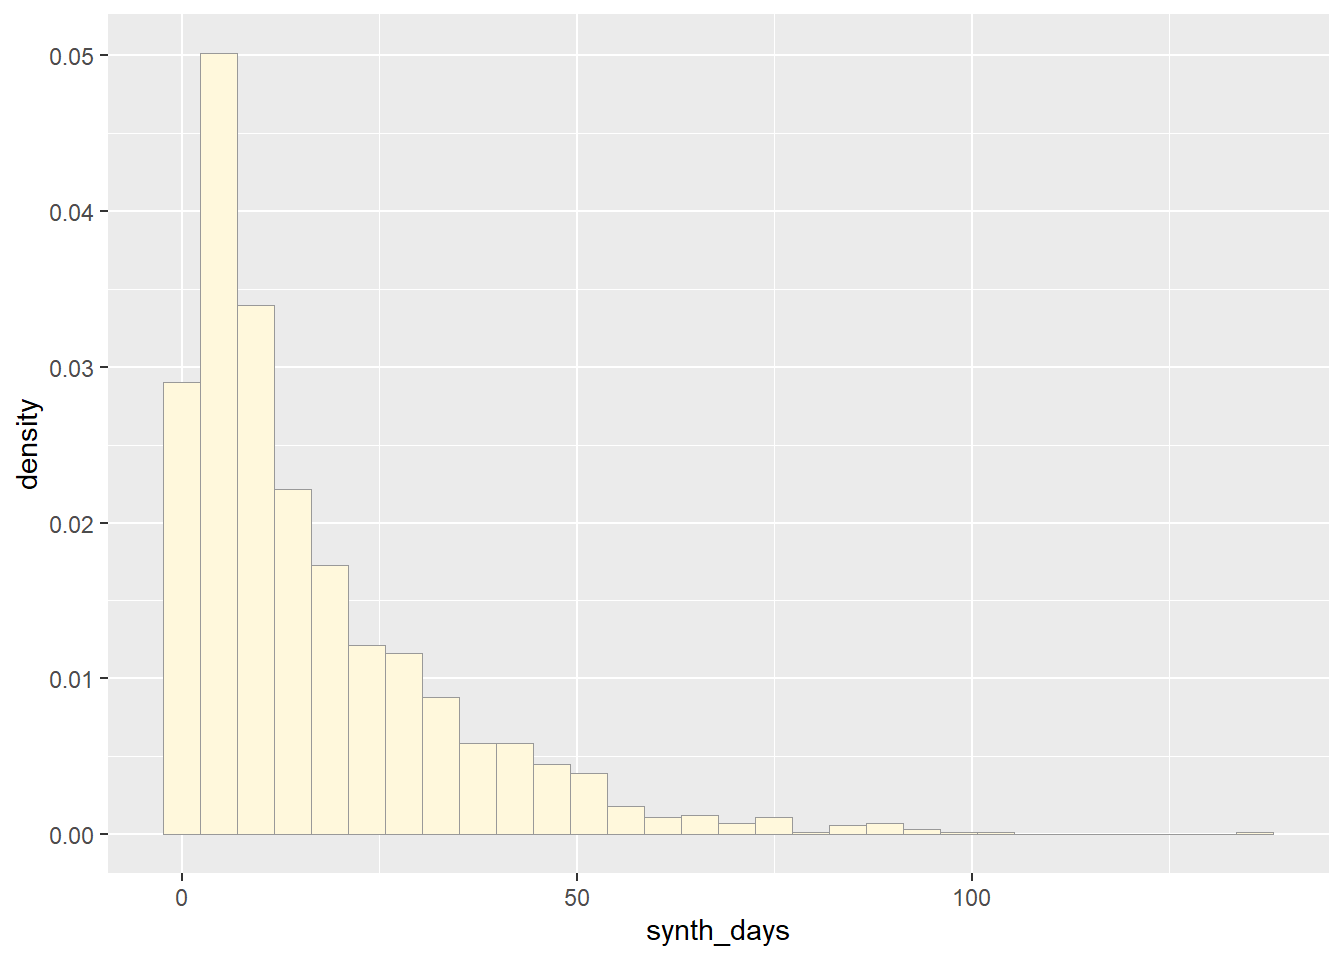
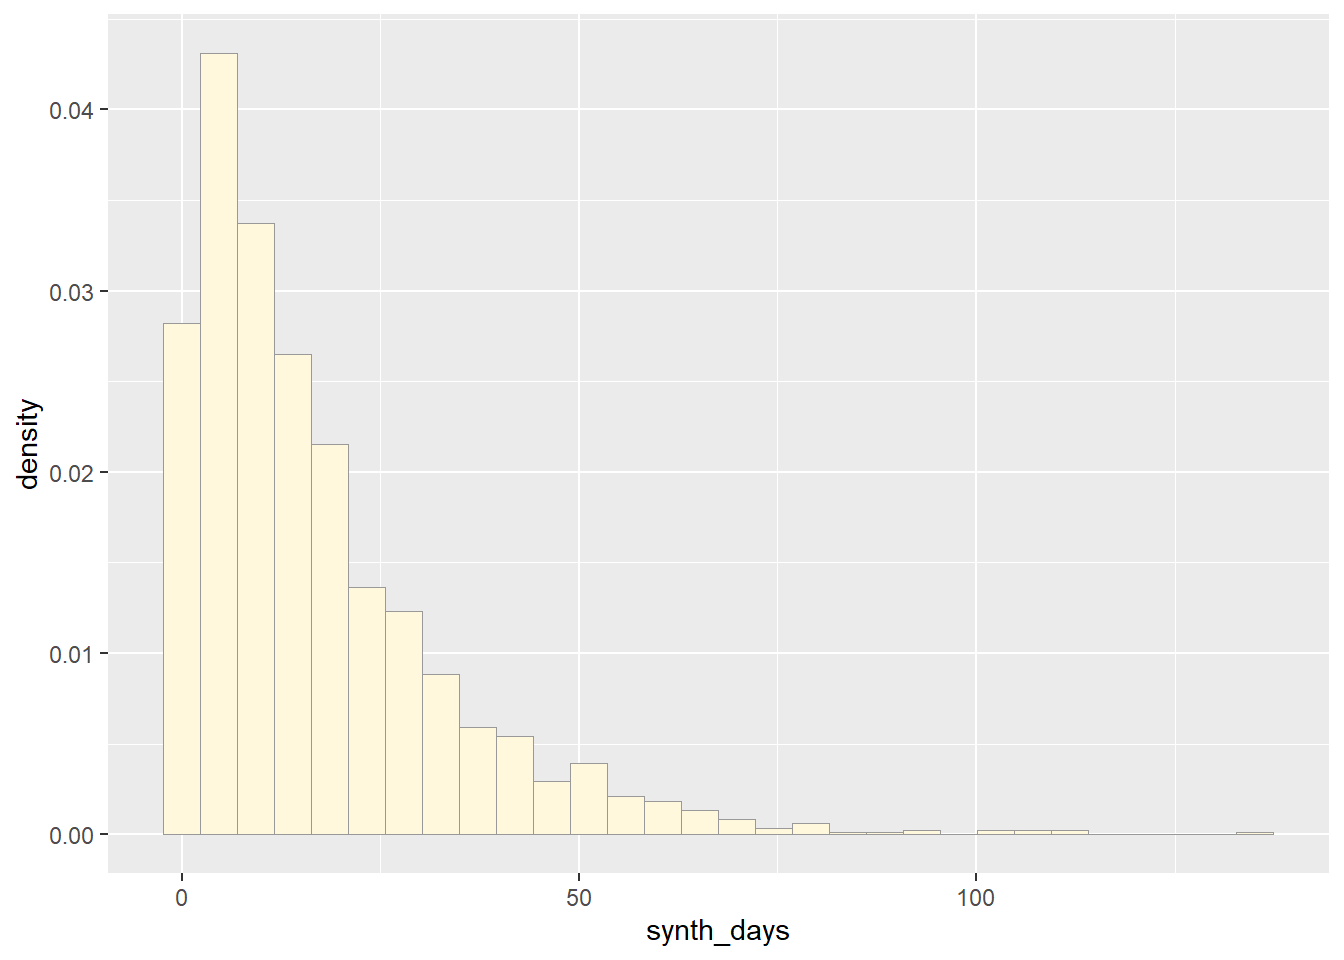
Adding homework 9 I hope it goes well

diff --git a/docs/Homework8.html b/docs/Homework8.html
@@ -294,7 +294,19 @@ str(z)</code></pre>
 <div id="opening-library" class="section level4">
 <h4>Opening Library</h4>
 <pre class="r"><code>library(ggplot2) # for graphics
-library(MASS) # for maximum likelihood estimation</code></pre>
+library(MASS) # for maximum likelihood estimation
+library(dplyr)</code></pre>
+<pre><code>## 
+## Attaching package: &#39;dplyr&#39;</code></pre>
+<pre><code>## The following object is masked from &#39;package:MASS&#39;:
+## 
+##     select</code></pre>
+<pre><code>## The following objects are masked from &#39;package:stats&#39;:
+## 
+##     filter, lag</code></pre>
+<pre><code>## The following objects are masked from &#39;package:base&#39;:
+## 
+##     intersect, setdiff, setequal, union</code></pre>
 </div>
 <div id="reading-in-a-data-vector-for-testing-distributions"
 class="section level4">
@@ -378,6 +390,7 @@ stat_function):</p>
 sdML &lt;- normPars$estimate[&quot;sd&quot;]
 
 xval &lt;- seq(0,max(z$synth_days),len=length(z$synth_days))
+des_xval &lt;- seq(max(z$synth_days), 0 ,len=length(z$synth_days))
 
  stat &lt;- stat_function(aes(x = xval, y = ..y..), fun = dnorm, colour=&quot;red&quot;, n = length(z$synth_days), args = list(mean = meanML, sd = sdML))
  p1 + stat</code></pre>
@@ -398,6 +411,14 @@ stat2 &lt;- stat_function(aes(x = xval, y = ..y..), fun = dexp, colour=&quot;blu
  p1 + stat + stat2</code></pre>
 <pre><code>## `stat_bin()` using `bins = 30`. Pick better value with `binwidth`.</code></pre>
 <p><img src="Homework8_files/figure-html/unnamed-chunk-8-1.png" width="672" /></p>
+<pre class="r"><code># p_temp &lt;- ggplot(data=z, 
+#             aes(x= arrange(xval, desc(z$synth_days)), y=after_stat(density)))
+# print(p_temp) 
+  
+# stat2_des &lt;- stat_function(aes(x = des_xval, y = ..y..), fun = dexp, colour=&quot;blue&quot;, n = length(z$synth_days), args = list(rate=rateML))
+# p_temp + stat2_des
+
+# arrange(xval, desc(z$synth_days))</code></pre>
 </div>
 <div id="plot-uniform-probability-density" class="section level4">
 <h4>Plot Uniform Probability Density</h4>
@@ -521,32 +542,32 @@ norm_data &lt;- norm_data[norm_data$synth_days&gt;0,]
 str(norm_data)</code></pre>
 <pre><code>## &#39;data.frame&#39;:    1743 obs. of  2 variables:
 ##  $ ID        : int  1 2 3 4 5 6 7 8 9 10 ...
-##  $ synth_days: num  16 14.5 16.9 16.8 18.8 ...</code></pre>
+##  $ synth_days: num  16.6 19.3 15.2 18.8 15.9 ...</code></pre>
 <pre class="r"><code>summary(norm_data$synth_days)</code></pre>
 <pre><code>##    Min. 1st Qu.  Median    Mean 3rd Qu.    Max. 
-##   12.88   15.94   16.66   16.65   17.37   19.71</code></pre>
+##   13.13   15.92   16.58   16.60   17.27   19.64</code></pre>
 <pre class="r"><code># Gettting new maximum likelihood parameters for new data set
 normPars2 &lt;- fitdistr(norm_data$synth_days,&quot;normal&quot;)
 print(normPars2)</code></pre>
 <pre><code>##       mean           sd     
-##   16.64994731    1.03156834 
-##  ( 0.02470867) ( 0.01747167)</code></pre>
+##   16.60254589    1.02044202 
+##  ( 0.02444216) ( 0.01728322)</code></pre>
 <pre class="r"><code>str(normPars2)</code></pre>
 <pre><code>## List of 5
-##  $ estimate: Named num [1:2] 16.65 1.03
+##  $ estimate: Named num [1:2] 16.6 1.02
 ##   ..- attr(*, &quot;names&quot;)= chr [1:2] &quot;mean&quot; &quot;sd&quot;
-##  $ sd      : Named num [1:2] 0.0247 0.0175
+##  $ sd      : Named num [1:2] 0.0244 0.0173
 ##   ..- attr(*, &quot;names&quot;)= chr [1:2] &quot;mean&quot; &quot;sd&quot;
-##  $ vcov    : num [1:2, 1:2] 0.000611 0 0 0.000305
+##  $ vcov    : num [1:2, 1:2] 0.000597 0 0 0.000299
 ##   ..- attr(*, &quot;dimnames&quot;)=List of 2
 ##   .. ..$ : chr [1:2] &quot;mean&quot; &quot;sd&quot;
 ##   .. ..$ : chr [1:2] &quot;mean&quot; &quot;sd&quot;
 ##  $ n       : int 1743
-##  $ loglik  : num -2527
+##  $ loglik  : num -2508
 ##  - attr(*, &quot;class&quot;)= chr &quot;fitdistr&quot;</code></pre>
 <pre class="r"><code>normPars2$estimate[&quot;mean&quot;]</code></pre>
 <pre><code>##     mean 
-## 16.64995</code></pre>
+## 16.60255</code></pre>
 <pre class="r"><code># Graphing normal distribution
 p2 &lt;- ggplot(data=norm_data, 
              aes(x=synth_days, y=after_stat(density))) +
@@ -575,10 +596,10 @@ exp_data &lt;- exp_data[exp_data$synth_days&gt;0,]
 str(exp_data)</code></pre>
 <pre><code>## &#39;data.frame&#39;:    1743 obs. of  2 variables:
 ##  $ ID        : int  1 2 3 4 5 6 7 8 9 10 ...
-##  $ synth_days: num  45 11.52 2.6 12.65 9.16 ...</code></pre>
+##  $ synth_days: num  0.444 3.567 0.405 5.902 4.756 ...</code></pre>
 <pre class="r"><code>summary(exp_data$synth_days)</code></pre>
 <pre><code>##      Min.   1st Qu.    Median      Mean   3rd Qu.      Max. 
-##   0.00512   4.48957  10.79958  16.70456  24.05081 135.82258</code></pre>
+##   0.01133   5.10192  11.98102  16.97108  23.35961 135.11902</code></pre>
 <pre class="r"><code># Gettting new maximum likelihood parameters for new data set
 
 p3 &lt;- ggplot(data=exp_data, 

diff --git a/docs/Homework.html b/docs/Homework.html
@@ -317,6 +317,13 @@ set</p>
 integer data types to respective probability density function for
 different statistical distributions</p>
 </div>
+<div id="week-9" class="section level4">
+<h4>Week 9</h4>
+<p><a href="NWKM_Homework9_BIOL6100.zip">Homework 9</a></p>
+<p>This assignment revolves around downloading a series of data sets
+online, creating pseudo-code/user-made-functions to clean the data,
+obtain certain counts, regression statistics, and histograms</p>
+</div>
 </div>
 
 
